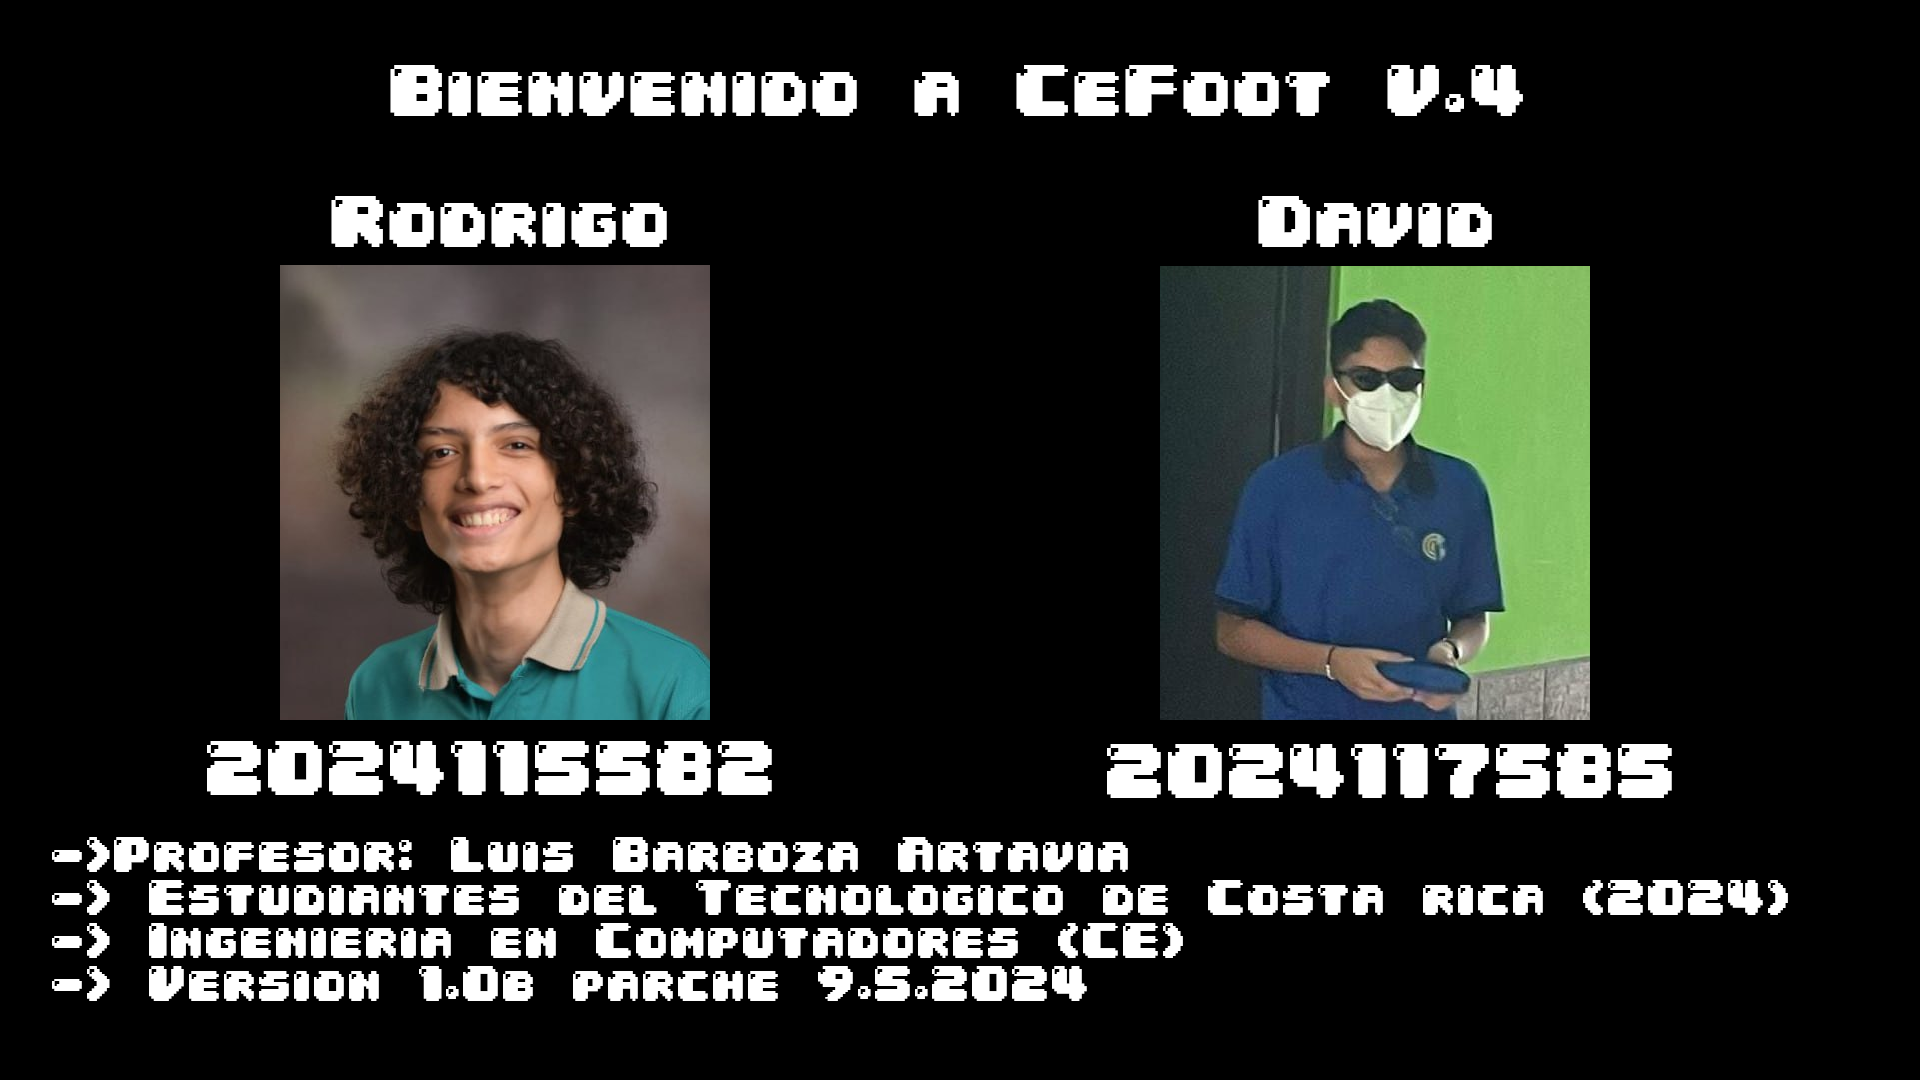
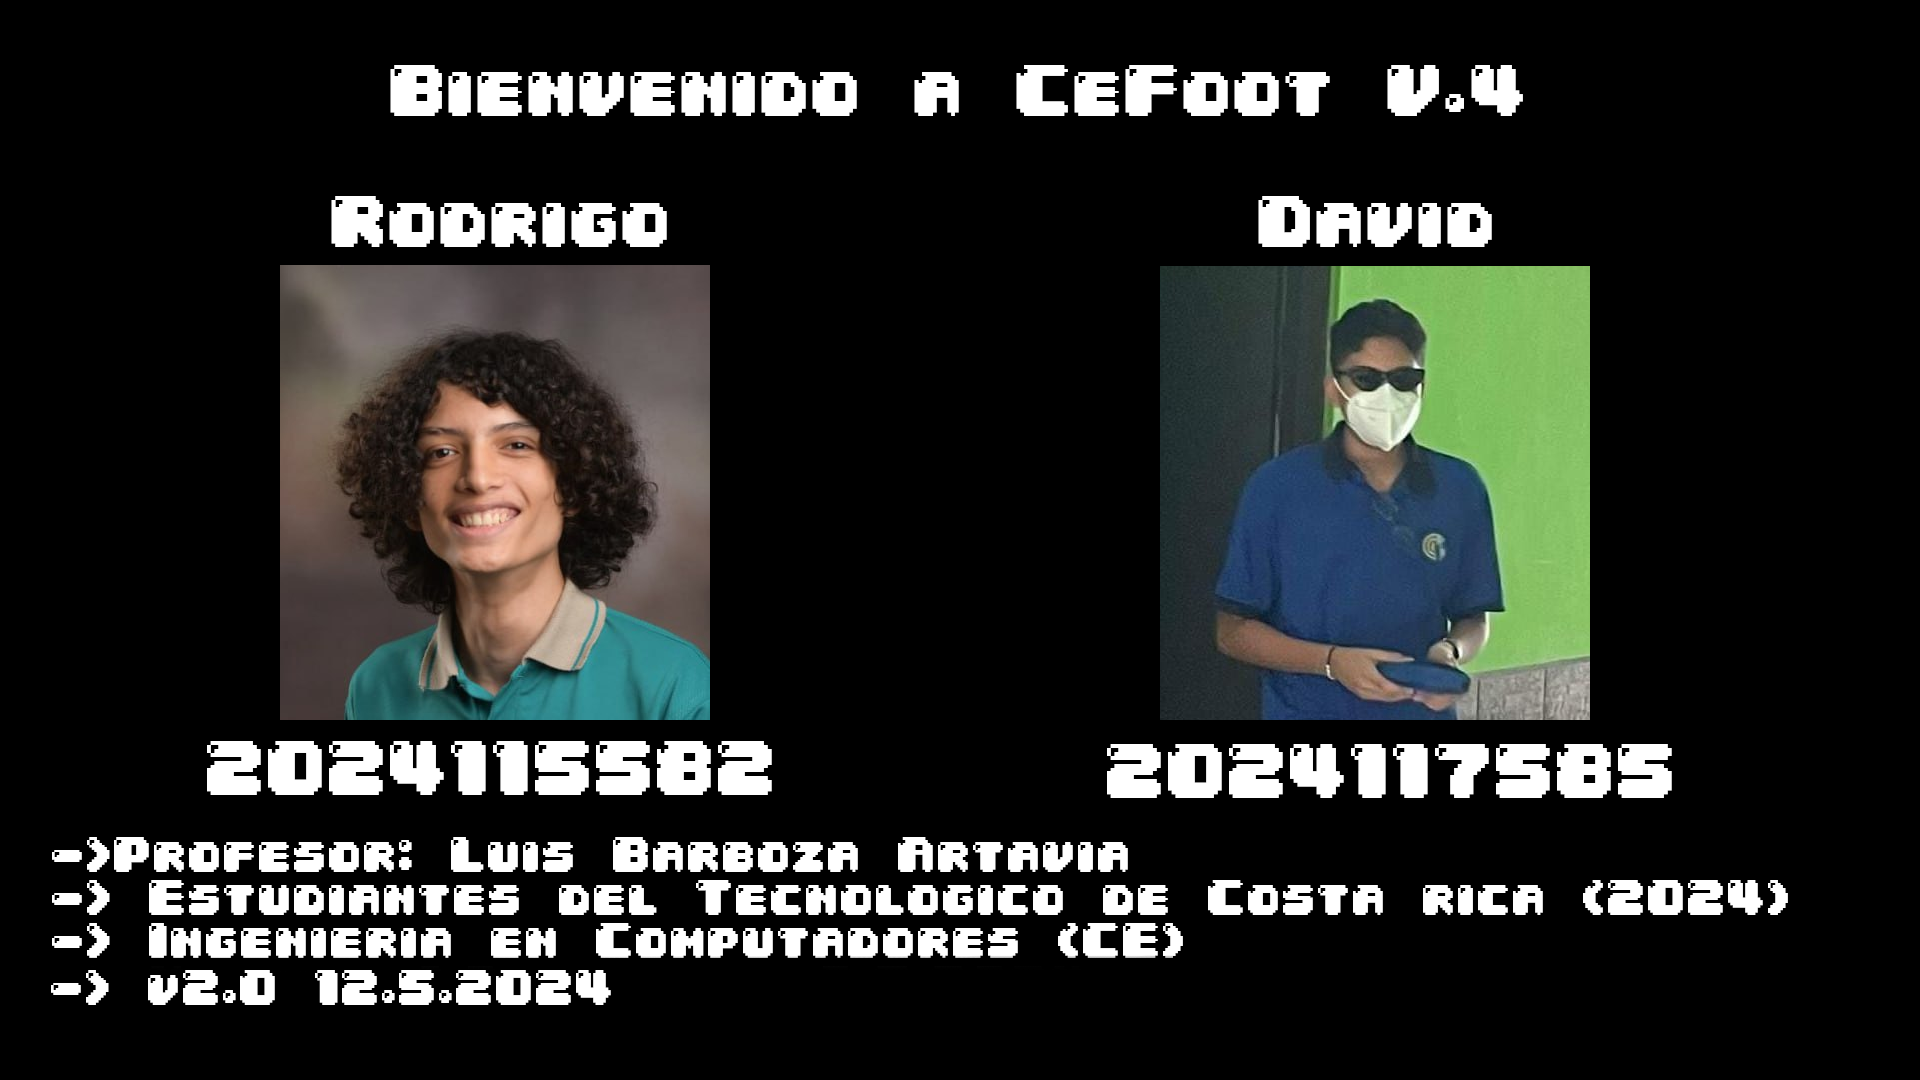
Terminada version v2.0 12.5.2024

Changed region(s): [[0.0312, 0.8861, 0.5625, 0.9472]]

diff --git a/gui.py b/gui.py
@@ -11,6 +11,8 @@ import time
 import pygame
 import os
 
+__version__ = "V2 12.5.2024"
+
 DEFAULT = {
     "Manchester United": {
         "score": 0,
@@ -121,8 +123,7 @@ class MainWindow(tk.Tk):
         pygame.mixer.music.load("assets/bgmusic.mp3")
         pygame.mixer.music.play(loops=-1)
         pygame.mixer.music.set_volume(1.0)
-        # Constantes
-        self.wm_attributes('-alpha', 0.5)
+     
         self.ON_FAIL = pygame.mixer.Sound("assets/abucheo.mp3")
         self.ON_GOAL = pygame.mixer.Sound("assets/gol.mp3")
         self.ON_SHOT = pygame.mixer.Sound("assets/shot.mp3")
@@ -190,6 +191,8 @@ class MainWindow(tk.Tk):
         ganador = f"{self.defending_team.name}"
         if self.current_team_playing.score > self.defending_team.score:
             ganador = f"{self.current_team_playing.name}"
+        elif self.current_team_playing.score == self.defending_team.score:
+            ganador = "Empate"
         title = tk.Label(
             local_window,
             text=f"Ganador: {ganador}",
@@ -301,8 +304,6 @@ Mejores jugadores:
         )
         reset_button = self.button("Resetear stats", self.reset_stats, master=local_window)
         exit_button = self.button("Salir", self.destroy, master=local_window)
-        local_window.attributes("-topmost", True)
-        local_window.attributes("-fullscreen", True)
 
         info_local.grid(row=1, column=0, sticky="nsew")
         info_defending.grid(row=1, column=1, sticky="nsew")
@@ -411,12 +412,12 @@ Mejores jugadores:
 
         select_button = self.button("Seleccionar", self.set_team, master=local_window)
 
+        local_window.attributes("-topmost", True)
+        local_window.attributes("-fullscreen", True)
         self.blue_team_widget.place(x=256, y=256)
         self.red_team_widget.place(x=1152, y=256)
         select_button.place(x=700, y=800)
         self.team_selecting_title.pack()
-        local_window.attributes("-fullscreen", True)
-        local_window.attributes("-topmost", True)
         selecting_team_thread = threading.Thread(target=self.selecting_team, args=(local_window,))
         selecting_team_thread.start()
 
@@ -485,6 +486,7 @@ Mejores jugadores:
         title.pack()
         coin.place(x=1800 // 2, y=600)
         coin_window.attributes("-topmost", True)
+        coin_window.attributes("-fullscreen", True)
         coin_animation = threading.Thread(target=self.animate_coin, args=(frames, coin, coin_window,))
         coin_animation.start()
 

diff --git a/terminal.py b/terminal.py
@@ -1,0 +1,12 @@
+import colorama
+
+logo = f"""
+{colorama.Fore.LIGHTGREEN_EX}
+ ██████╗███████╗███████╗ ██████╗  ██████╗ ████████╗██╗   ██╗██╗  ██╗
+██╔════╝██╔════╝██╔════╝██╔═══██╗██╔═══██╗╚══██╔══╝██║   ██║██║  ██║
+██║     █████╗  █████╗  ██║   ██║██║   ██║   ██║   ██║   ██║███████║
+██║     ██╔══╝  ██╔══╝  ██║   ██║██║   ██║   ██║   ╚██╗ ██╔╝╚════██║
+╚██████╗███████╗██║     ╚██████╔╝╚██████╔╝   ██║    ╚████╔╝      ██║
+ ╚═════╝╚══════╝╚═╝      ╚═════╝  ╚═════╝    ╚═╝     ╚═══╝       ╚═╝
+{colorama.Style.RESET_ALL}
+"""
